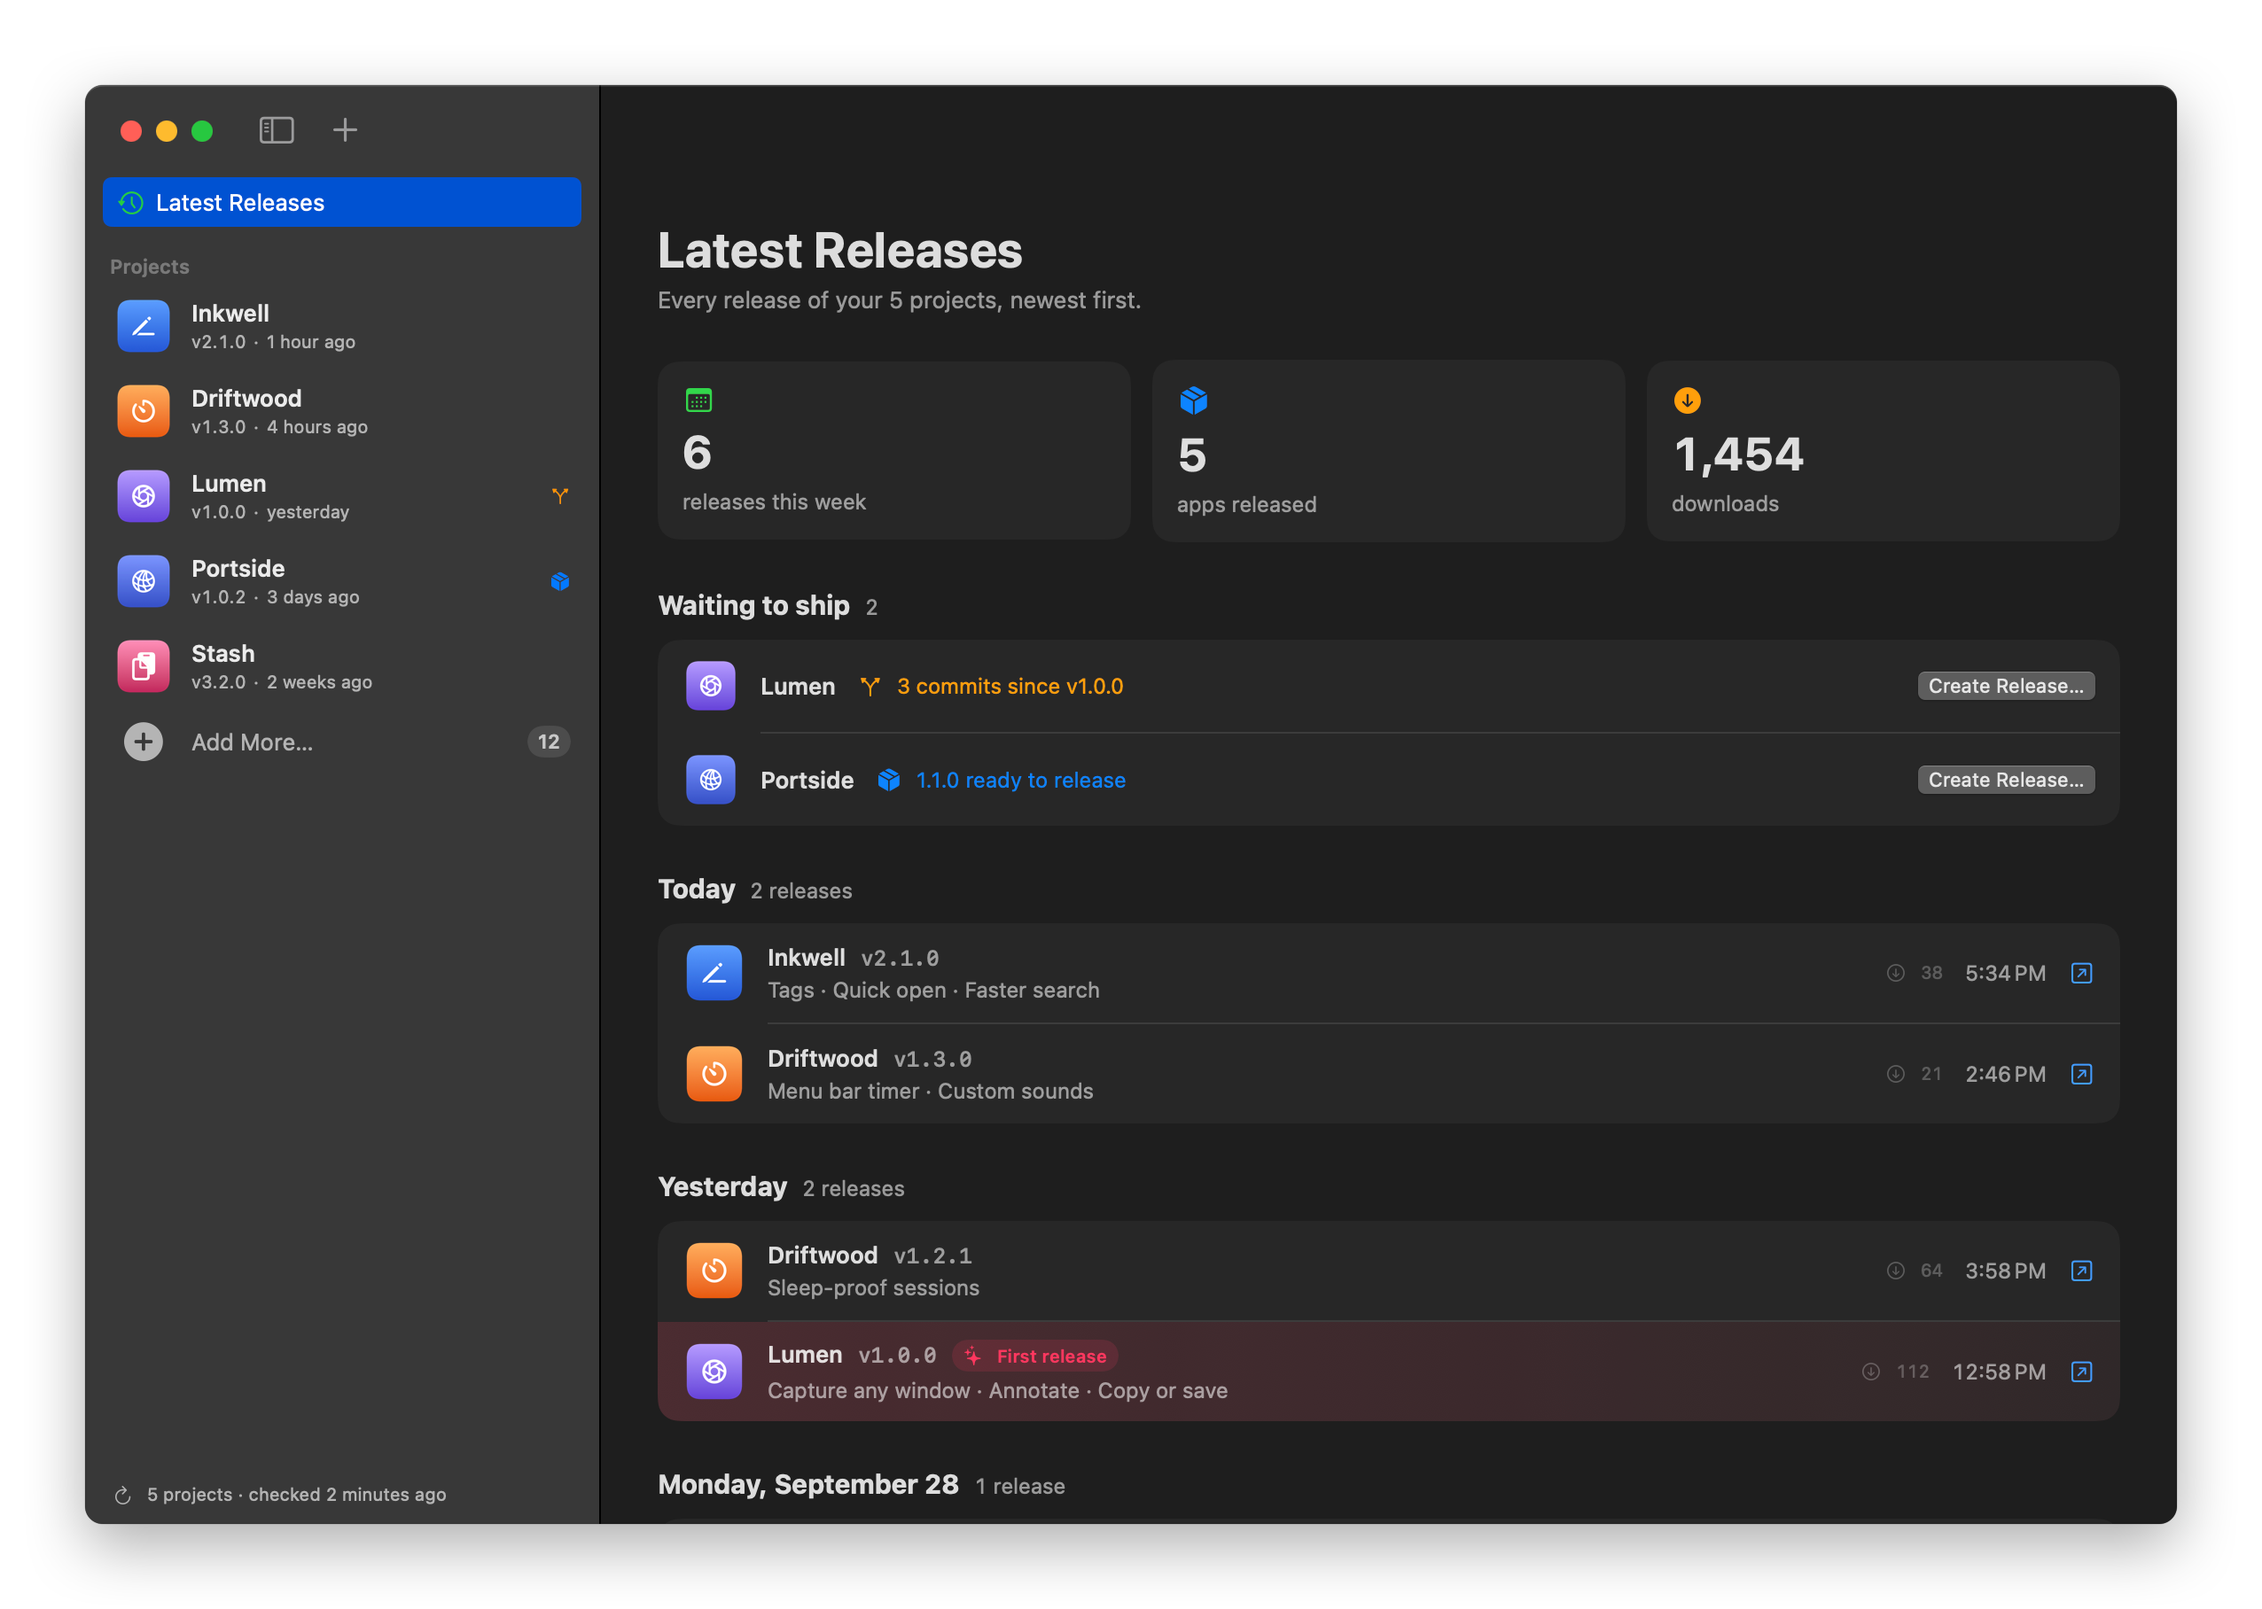
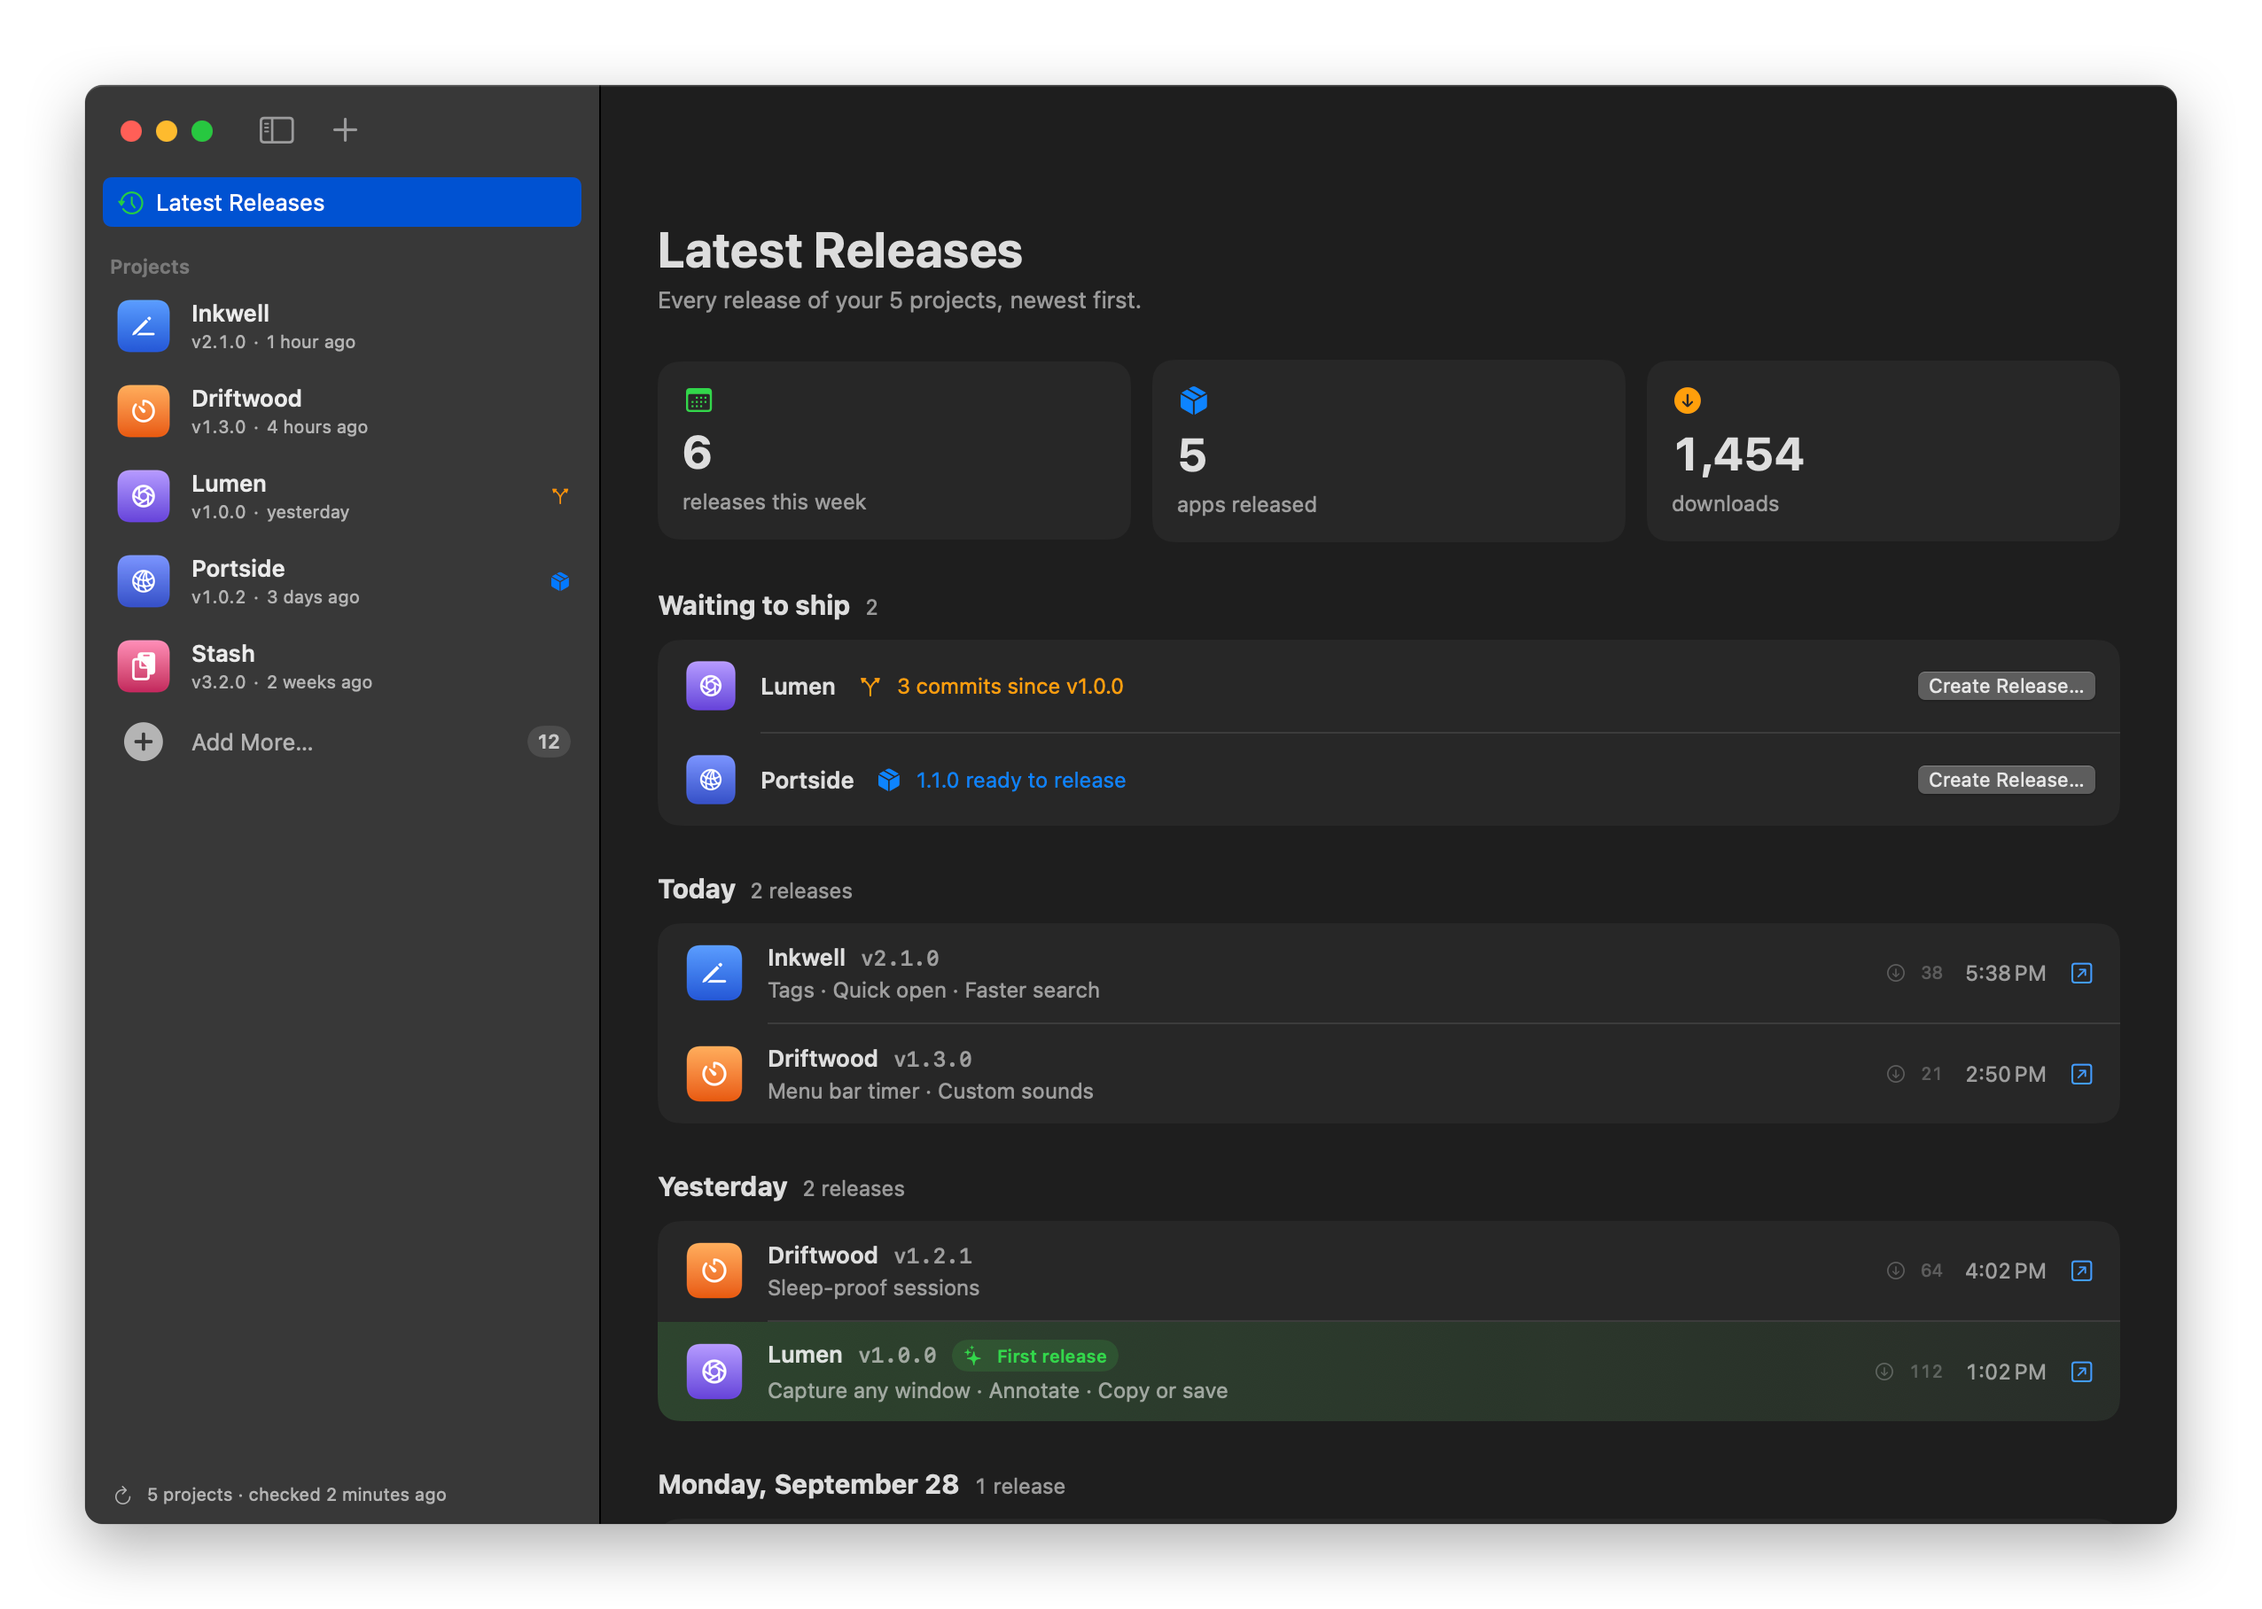
First releases in green

Changed region(s): [[0.2786, 0.8018, 0.4953, 0.8943]]

diff --git a/Sources/ReleasesApp/Styling.swift b/Sources/ReleasesApp/Styling.swift
@@ -111,7 +111,7 @@ struct Tag: View {
 
 extension Color {
   /// Marks a project's first release, the one that launched it.
-  static let firstRelease = Color.pink
+  static let firstRelease = Color.green
 }
 
 struct FirstReleaseTag: View {
